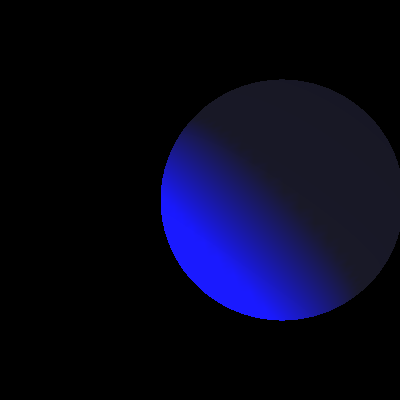
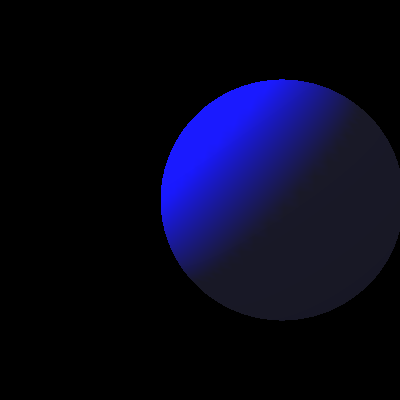
enable setting camera position, and tweak doc images

Changed region(s): [[0.39, 0.18, 0.9, 0.81]]

diff --git a/physical/__init__.py b/physical/__init__.py
@@ -29,7 +29,7 @@ __all__ = ('vector',
            'plot', 'hline',
            'timestep', 'savepng',
            'minimum_fps', 'exit_visualization',
-           'camera_range', 'camera_center',
+           'camera_range', 'camera_center', 'camera_position',
            'meter', 'second', 'kg', 'Newton', 'Joule')
 
 try:
@@ -852,9 +852,10 @@ class __display(object):
         gl.glLoadIdentity()
         gl.glPushMatrix()
         center = position(self.__center)
-        glu.gluLookAt(value(self.__camera.x), value(self.__camera.y), value(self.__camera.z),
-                  center._x, center._y, center._z,
-                  value(self.__up.x), value(self.__up.y), value(self.__up.z))
+        camera = position(self.__camera)
+        glu.gluLookAt(camera._x, camera._y, camera._z,
+                      center._x, center._y, center._z,
+                      value(self.__up.x), value(self.__up.y), value(self.__up.z))
 
         lightZeroPosition = [10.,4.,10.,1.]
         lightZeroColor = [1,1,1,1.0]
@@ -888,7 +889,7 @@ class __display(object):
         width = self.__windowsize[0]
         height = self.__windowsize[1]
         data = gl.glReadPixels(0, 0, width, height, gl.GL_RGB, gl.GL_UNSIGNED_BYTE)
-        Image.fromstring("RGB", (width, height), data).save(fname)
+        Image.frombuffer("RGB", (width, height), data, 'raw', 'RGB', 0, -1).save(fname)
 
     def __init__(self, name = b'physical python'):
         self.__name = name
@@ -927,20 +928,22 @@ class __display(object):
         elif btn == 3: # scroll up
             if state == glut.GLUT_DOWN:
                 center = position(self.__center)
-                self.__camera = center + (self.__camera - center)/1.1
+                self.__camera = center + (position(self.__camera) - center)/1.1
             glut.glutPostRedisplay()
         elif btn == 4: # scroll down
             if state == glut.GLUT_DOWN:
                 center = position(self.__center)
-                self.__camera = center + (self.__camera - center)*1.1
+                self.__camera = center + (position(self.__camera) - center)*1.1
             glut.glutPostRedisplay()
         else:
             print('mouse', btn, state)
     def _camera_range(self, x):
-        dr = self.__camera - position(self.__center)
+        dr = position(self.__camera) - position(self.__center)
         self.__camera = position(self.__center) + x*dr/abs(dr)
     def _camera_center(self, center):
         self.__center = center
+    def _camera_position(self, pos):
+        self.__camera = pos
     def __onWheel(self, button, direction, x, y):
         print('scroll', button, direction, x, y)
     def __onMouseMotion(self, x, y):
@@ -951,17 +954,17 @@ class __display(object):
         if dx == 0 and dy == 0:
             return
         yhat = self.__up.normalized()
-        xhat = self.__up.cross((position(self.__center) - self.__camera).normalized())
+        xhat = self.__up.cross((position(self.__center) - position(self.__camera)).normalized())
         if self.__am_rotating:
             direction = (dy*xhat - dx*yhat).normalized()
             angle = 3*math.sqrt(dx**2 + dy**2)/self.__windowsize[1]
             R = _rotation(angle, direction)
-            self.__camera = R.rotate(self.__camera)
+            self.__camera = R.rotate(position(self.__camera))
             self.__up = R.rotate(self.__up)
             glut.glutPostRedisplay()
         elif self.__am_translating:
-            move = 0.6*(dx*xhat + dy*yhat)/self.__windowsize[1]*abs(self.__camera - position(self.__center))
-            self.__camera = self.__camera + move
+            move = 0.6*(dx*xhat + dy*yhat)/self.__windowsize[1]*abs(position(self.__camera) - position(self.__center))
+            self.__camera = position(self.__camera) + move
             self.__center = position(self.__center) + move
             glut.glutPostRedisplay()
     def __onReshape(self, width, height):
@@ -998,6 +1001,7 @@ class __display(object):
             atexit.register(sleep_forever)
 
     def timestep(self, dt):
+        self.init()
         self.__current_time += dt.v
         now = time.time()
         if now < self.__current_time:
@@ -1182,13 +1186,13 @@ def cylinder(pos1, pos2,
 
     .. testcode :: cylinder
 
-        c = cylinder(vector(0,0,0)*meter, vector(1,0,0)*meter)
-        c.pos2 = vector(.4,.3,-5)*meter
+        c = cylinder(vector(0,0,0)*meter, vector(1,0,0)*meter, radius=1*meter)
+        c.pos2 = vector(.4,.3,-.3)*meter
 
     .. testcode :: cylinder
         :hide:
 
-        camera_range(7*meter)
+        camera_range(5*meter)
         savepng('html/cylinder.png')
         timestep(1*second)
     """
@@ -1203,6 +1207,10 @@ def cylinder(pos1, pos2,
 def box(pos, wx, wy, wz, color=color.RGB(1,1,1)):
     """Create a box object.
 
+    .. image :: html/box.png
+         :align: right
+         :width: 8em
+
     Args:
         pos: the initial position of the center of the box
         wx: the width of the box in the x direction
@@ -1212,11 +1220,18 @@ def box(pos, wx, wy, wz, color=color.RGB(1,1,1)):
     Raises:
         Exception: the dimensions are not distances
 
-    .. testcode ::
+    .. testcode :: box
 
         # create a box that is 1x1x0.1 meters in dimension,
         # centered at the origin.
         b = box(vector(0,0,0)*meter, 1*meter, 1*meter, 0.2*meter)
+        camera_position(vector(.5,1.5,1)*meter)
+
+    .. testcode :: box
+        :hide:
+
+        savepng('html/box.png')
+        timestep(1*second)
     """
     check_units('box dimensions must be distances',
                 pos, wx, wy, wz, meter)
@@ -1296,6 +1311,24 @@ def camera_center(center):
     '''
     check_units('range must be a position', position(center), meter)
     __x._camera_center(center)
+
+def camera_position(camera):
+    '''Set the position of the camera.
+
+    Args:
+        camera: the position of the camera, which is a position vector or
+           an object with a position
+    Raises:
+        Exception: the `camera` is not a position or object with a
+            position
+
+    .. testcode :: camera_position
+
+        s = sphere(vector(3,3,3)*meter, color=color.yellow)
+        camera_position(s)
+    '''
+    check_units('range must be a position', position(camera), meter)
+    __x._camera_position(camera)
 
 def camera_range(distance):
     '''Set the distance from the camera to the center of view.
